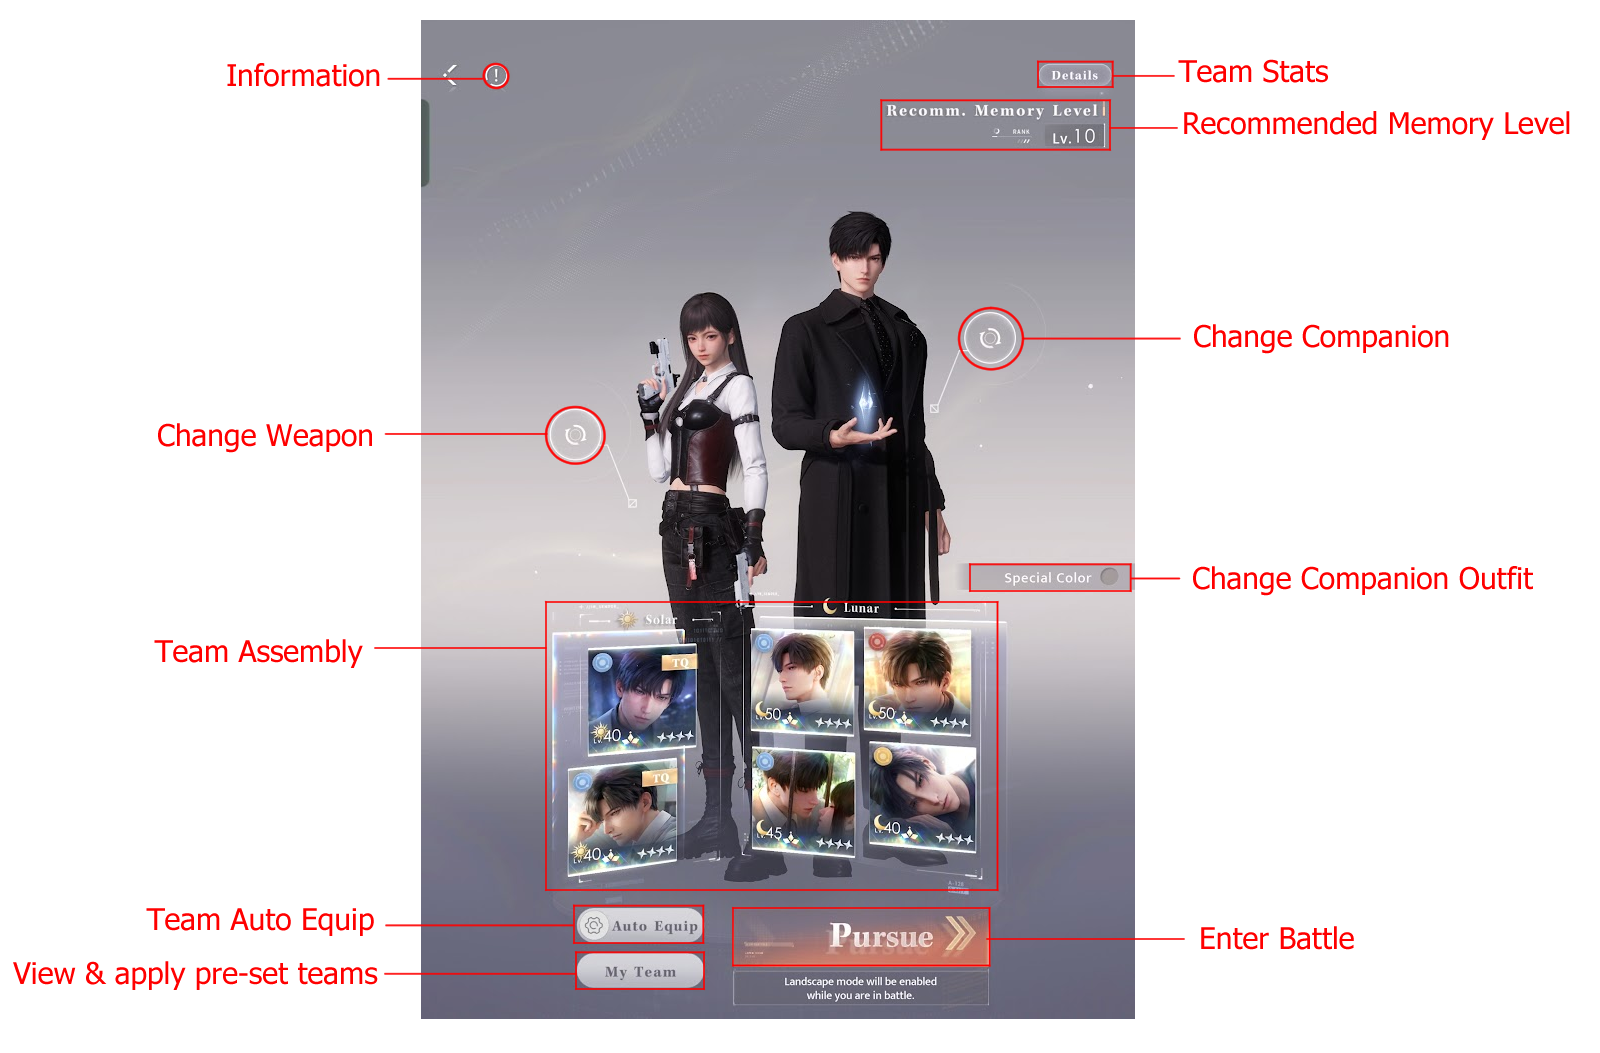
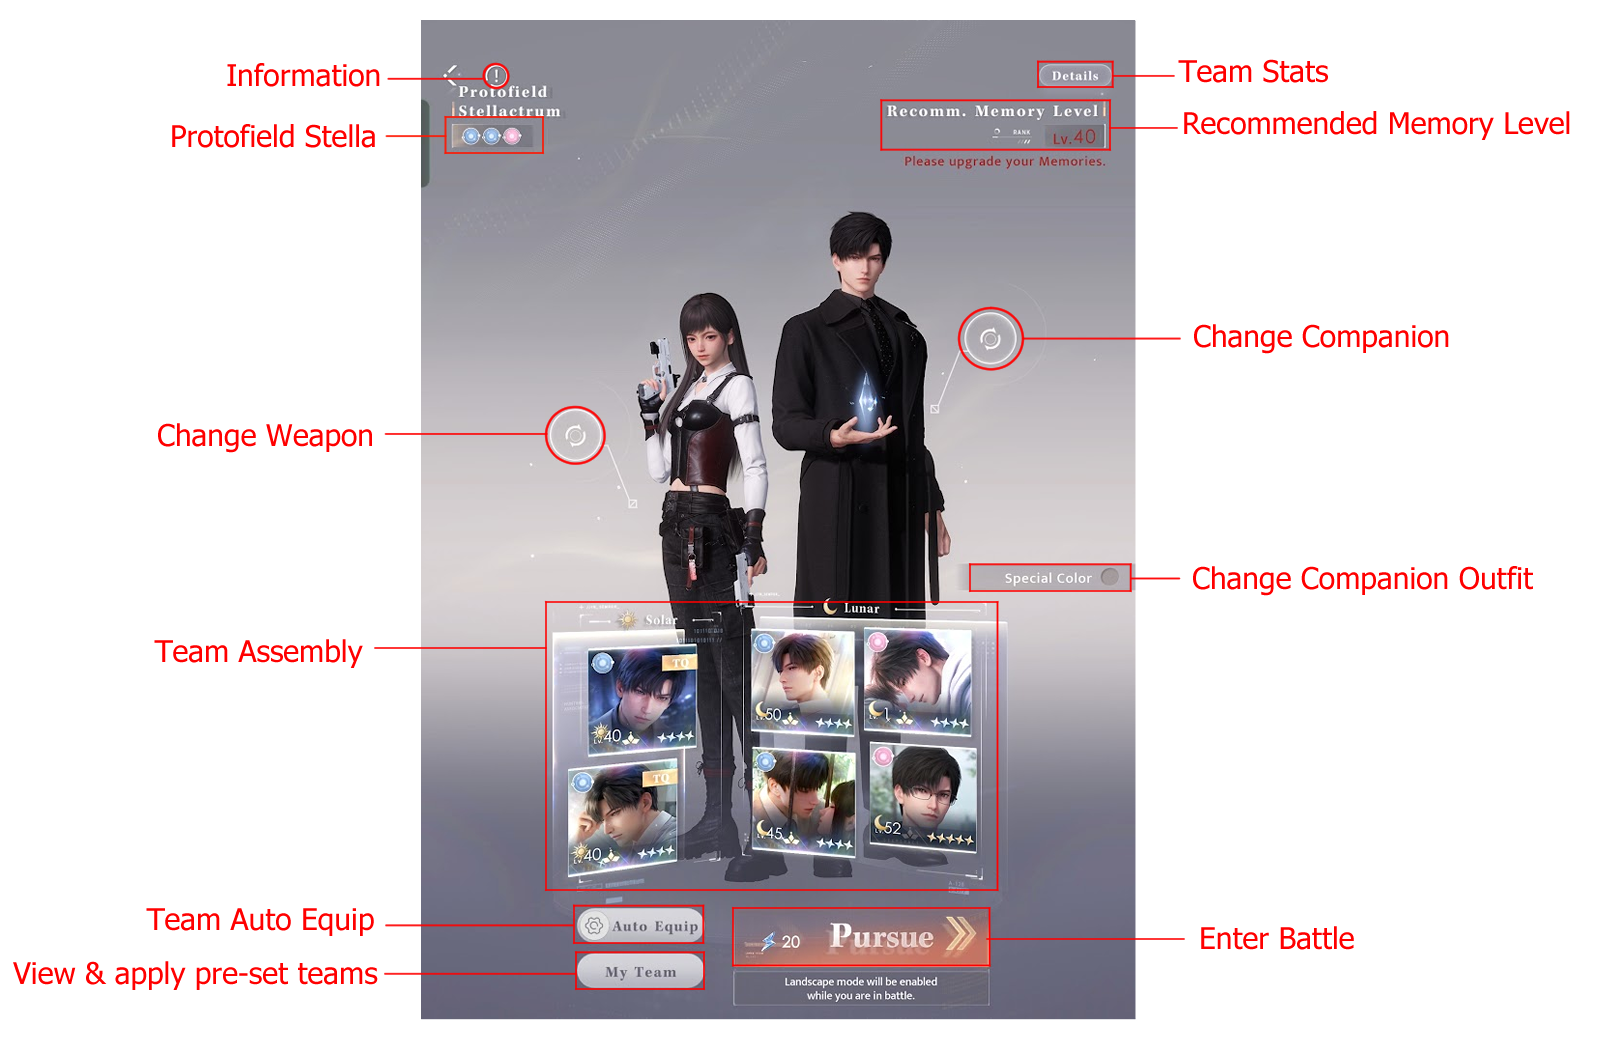
Quartz sync: Sep 4, 2025, 12:29 AM

diff --git a/content/Glossary.md b/content/Glossary.md
@@ -7,6 +7,8 @@ tags:
 - **LI** - love interest.
 - **OG3** - refers to original 3 men: Xavier, Rafayel, Zayne.
 - **RNG** - “random number generation” except no one actually calls it that. Basically just the randomness of anything (trust us, this game’s combat has way too much RNG to explain here). A “good RNG run” means that lady luck was on your side and you got lots of high damage numbers.
+- **Minstat** - using very low overall stats to clear a stage. Usually the lowest stats that can be used to clear that stage.
+- **Overstat** - the team’s stats are a good deal higher than is needed to beat the stage if the companion’s kit is played properly
 ## Companion kit
 - **Companion** - this is who you fight alongside in battles.
 - **Free companion** - the game gives free 4* companions for all LI.
@@ -48,6 +50,10 @@ tags:
 - **Ardent Oath (oath)** - consumes the oath charge to deal an “ultimate” attack with your companion.
 - **Support skill** - your companion’s icon to command him to perform his special attack.
 	- **Empowered support** - when you trigger a perfect dodge, your companion’s support will become fully charged and deal special damage if used when it is flashing.
+- **Shield Lock** - some enemies enter a phase that prevents their protocore shields from breaking from a resonance skill.
+- **HP Lock**- some enemies enter a phase that prevents any damage from being dealt to it.
+- **Boss** - typical only appear in stages by themselves and half special skills like HP lock; have 4 protocore shields.
+- **Mob** - typically appear in groups and have lower HP and easier-to-deal-with skills; have 2 or no protocore shields.
 ## Stats
 - **Base stat** - a card’s fixed stats. The black stats in card description.
 - **Mainstat** - the top most line on a core.
@@ -65,9 +71,12 @@ tags:
 - **Roll** - a term used to describe increasing the levels, usually of a substat, on a core.
 ## LI's pairs
 **Xavier**:
+5 star:
 - LT - [Lightseeker] (Standard Myth, green)
 - MN - [Lumiere] (Limited Myth, yellow)
 - NV - [King of Darknight] (Limited Myth, red)
+
+4 star:
 - LS - green
 - SN - yellow
 - HC - red
@@ -75,31 +84,43 @@ tags:
 - GX - blue
 
 **Rafayel**:
+5 star:
 - AB - [Abysswalker] (Standard Myth, purple)
 - TP - [God of the Tides] (Limited Myth, pink)
 - MS - [Lemurian Sea God] (Limited Myth, yellow)
+
+4 star:
 - RD - purple
 - DT - pink
 - HC - yellow
 - TF - green
 
 **Zayne**:
+5 star:
 - FS - [Foreseer] (Standard Myth, blue)
 - SF - [Master of Fate] (Limited Myth (red)
+
+4 star:
 - TQ - blue 
 - NT - red
 - HC - pink
 - FR - yellow
 
 **Sylus**:
+5 star:
 - CA - [Relentless Conqueror] (Standard Myth, pink)
 - AS - [Abysm Sovereign] (Limited Myth, green)
+
+4 star:
 - RZ - pink
 - BN - blue
 
 **Caleb**:
+5 star:
 - FA - [Farspace Colonel] (Standard Myth, red)
 - LR - [Ultimate Weapon X-02] (Limited Myth, purple)
+
+4 star:
 - FD - green
 - LO - red
 

diff --git a/content/Beginner guides/Memories cards.md b/content/Beginner guides/Memories cards.md
@@ -54,7 +54,8 @@ Pair bonuses for 4* solar pairs are all the same: 
 - R2: Reduces DMG taken by 5%
 - R3: Increase DMG by 5%
 
-Pair bonuses for 5* solar pairs (myths) have both standard bonuses as well as unique additions to the companion kit (listed in their individual companion guides). 
+Pair bonuses for 5* solar pairs (myths) have both passive bonuses as well as active bonuses that are unique to the companion kit (listed in their individual companion guides).
+Passive bonuses are the same for all myth pairs:
 - R0: Increases DMG by 8% and reduces DMG taken by 8%
 - R1: Boost oath recovery boost by 20%
 - R2: Adds a permanent extra energy charge (also unlocks the special colour for the companion)
@@ -69,14 +70,14 @@ When discussing Myth companions, “R-1” is often to used to describe a team u
 >[!example]- Myth companion on 4* solar pair
 >For example, in the below team set up, the solar pair is the 4 star R1 VL, but the companion is Lightseeker. Lightseeker has his own 5 star solar cards (LT), which are not deployed on this team. In this team, only the VL pair bonuses apply, and none of the LT pair bonuses apply (if your account has an R3 LT pair, none of those pair bonuses apply to this R1 VL team).
 >
->In this case, we often call it an R-1 LT: you can use LT’s base companion kit, but do not have access to any of the pair bonuses. This can often completely change the companion’s gameplay.
+>In this case, we often call it an R-1 LT: you can use LT’s base companion kit, but do not have access to any of the myth pair bonuses. This can often completely change the companion’s gameplay.
 >
 ><p style="text-align: center;"> <img src="/Images/memories cards/r-1_4starpair.jpg" alt="Myth companion on 4* solar pair" /> </p>
 
 >[!example]- Myth companion with different 5* solar pair
 >In the case of using Myth companions with 5 star solar cards that do not belong to the companion, then the standard 5* bonuses would apply, but not the companion specific bonuses. This can be done by clicking on the floating circle to the right of your companion - any companion can be used with any team of the same LI.
 >
->For example, in the Sylus team below, the myth Abysm Sovereign (AS) companion is being used on a R2 Relentless Conqueror (CA) solar pair. In this case, the R-1 AS companion would have the 8% DMG bonus, 8% reduced DMG taken, 20% oath recovery, and the 4th energy charge granted by the R2 CA standard pair bonuses, but none of the kit specific bonuses (listed in the companion guide). Typically, the higher the rank of the 5* solar pair cards, the less ideal it is to use a different companion, as you lose out on a lot of additional damage from the companion-specific pair bonuses.
+>For example, in the Sylus team below, the 5* Abysm Sovereign (AS) companion is being used on a R2 Relentless Conqueror (CA) solar pair. In this case, the R-1 AS companion would have the 8% DMG bonus, 8% reduced DMG taken, 20% oath recovery, and the 4th energy charge granted by the R2 CA passive pair bonuses, but none of the kit specific bonuses (listed in the companion guide). Typically, the higher the rank of the 5 star solar pair cards, the less ideal it is to use a different companion, as you lose out on a lot of additional damage from the companion-specific pair bonuses.
 >
 ><p style="text-align: center;"> <img src="/Images/memories cards/r-1_5starpair.jpg" alt="Myth companion on 5* solar pair" /> </p>
 # How to Read a Card’s Stats
@@ -91,14 +92,14 @@ Clicking on the details button opens up a box that breaks down all the stats on 
 ## Basic Stats
 The card’s base stats are listed in **Black**, while any additional stats from cores are listed in **Yellow**. In the above example, the equipped cores have no added HP and DEF, but add 394 ATK, 8.8% crit rate and 4.3% crit dmg. The sum of the black and yellow values are shown on the main memory screen (for example, 480 + 394 ATK add up to the 874 ATK in the previous image)
 ## Advanced Stats
-Listed here are things like Oath’s Strength, Expedited Energy Boost, Oath Recovery Boost and DMG Boost to Weakened. The DMG Boost to Weakened value includes any core substats as well as talent bonus. In the above image, there is a total of 5.9% D2W: 1.2% comes from the card talent, and the remaining 4.7% is from the equipped cores.
+Listed here are Oath’s Strength, Expedited Energy Boost, Oath Recovery Boost and DMG Boost to Weakened. The DMG Boost to Weakened value includes any core substats as well as talent bonus. In the above image, there is a total of 5.9% D2W: 1.2% comes from the card talent, and the remaining 4.7% is from the equipped cores.
 
 >[!warning] Oath Recovery Boost
->Any oath boost from an R1 solar pair bonus is not shown here as part of the Oath Recovery Boost.
+>Any oath boost from an R1 solar pair passive bonus is not shown here as part of the Oath Recovery Boost stat.
 ## Card Talents
-All cards come with a talent that is used to increase the D2W boost. Card talents **should not** be considered in most team set-ups, and are only used to passively add additional D2W stats to the team. Advanced players can try to match lunar talents with their companion if they are brute forcing or using minstats for a stage. 
+All cards come with a talent that is used to increase the card's D2W. Card talents **should not** be considered in most team set-ups, and are only used to passively add additional D2W stats to the team. Advanced players can try to match lunar talents with their companion if they are brute forcing or using minstats for a stage. 
 
-A card’s talent is used to determine the card’s base stats, and are not dependent on whether it is a solar card or a lunar card. All 5* cards with an ATK talent at the same rank will have the same base stats, all 5* cards with an HP talent at the same rank will have the same base stats, etc. 
+A card’s talent is used to determine the card’s base stats, and are not dependent on whether it is a solar card or a lunar card. All 5 star cards with an ATK talent at the same rank will have the same base stats, all 5 star cards with an HP talent at the same rank will have the same base stats, etc.
 ## Cards stats table
 
 ![[Cards stats table#5 star cards]]

diff --git a/content/Beginner guides/Team building.md b/content/Beginner guides/Team building.md
@@ -6,11 +6,11 @@ tags:
 # Basics about a team
 Team building can be very intimidating if you are starting out. Here are the basics!
 1. A team is always made up of 2 <div class="tooltip">solar cards<span class="tooltiptext">Card has the “sun” icon</span> </div>, and 4 <div class="tooltip">lunar cards<span class="tooltiptext">Card has a crescent moon icon</span></div>. You cannot mix and match cards from different LI.
-2. Where possible, always pick a <div class="tooltip">solar pair<span class="tooltiptext">Two solar cards that are matched</span></div>. Pair bonuses can greatly increase your damage output. More about pairs. (put a link)
+2. Where possible, always pick a <div class="tooltip">solar pair<span class="tooltiptext">Two solar cards that are matched</span></div>. Pair bonuses can greatly increase your damage output. [[Memories cards#Solar Pairs|More about pairs]].
 <p style="text-align: center;"> <img src="/Images/solar_pairs.png" alt="Solar Pairs" /> </p>
 
-3. 5* cards will always have higher base stats than 4* cards (at similar levels), even if the 4* is max ranked. [|link to stats table]
-4. However, 5* cards are not always better to use than 4* cards. Stella matched battles are a lot easier to fight due to the weakened mechanic, compared to brute forcing a level. Using a 4* (or even 3*) card to stella match the stage will greatly reduce the stats required to beat it. 
+3. 5 star cards will always have higher base stats than 4 star cards (at similar levels), even if the 4 star is max ranked. [[Cards stats table]].
+4. However, 5 star cards are not always better to use than 4 star cards. Stella matched battles are a lot easier to fight due to the weakened mechanic, compared to brute forcing a level. Using a 4 star (or even 3 star) card to stella match the stage will greatly reduce the stats required to beat it. 
 5. The “auto-equip” function will always prioritise stella-matching a team. We do not recommend using the function because it does not recognise who your main is. This means it would rather choose six 1 level cards that can stella match the team, instead of six 80 level cards that do not stella match.
 
 >[!tip] Myth companion
@@ -22,11 +22,12 @@ Before you can enter a battle, you must pick the team that you will bring into c
 
 In team window you have: 
 - **Information**: This button opens up a quick summary of all the info in this guide if you need a reminder.
+- **Protofield Stella**: Some stages have stellactrum that can be matched. Every stella that can be matched by the team grants it 5% dmg boost, up to a max of 30% boost. For example, in the image above, the field stella is 2 blue and 1 pink. The team has 3 blue and 3 pink - granting a total of 30% dmg boost (alternatively, if your team had 1 blue and 5 pink, you would still receive the full 30% dmg boost, but would be considered a [[Team building#Brute Force vs Stella matching|brute force team]].) You can tap the stella to see a description of your team’s current stella bonuses.
 - **Team Stats**: This opens up a summary of the team stats of your current equipped memories. It includes a table of the sum of all the stats of the memories used in the team as well at the active pair bonuses (if available).
 
 >[!warning] Oath Recovery Boost
 >Any oath boost from an R1 solar pair bonus is not shown here as part of the Oath Recovery Boost.
-<p style="text-align: center;"> <img src="/Images/team_stats.jpg" alt="Team stats" /> </p>
+<p style="text-align: center;"> <img src="/Images/team_stats.jpg" alt="Team stats"/> </p>
 
 >[!tip] Sharing stats
 >When discussing teams or asking for help in the LaDs Discord server, give a screenshot of both the main team set up page as well as the team stats page so helpers can more easily give you advice.
@@ -77,7 +78,7 @@ Depending on the stage, there will be required stellactrum colours that you will
 **Brute team** - this can be either partial stella match or no stella match at all. Stat priority will be high *Crit rate %* and *Crit dmg %* -  a “crit build”. Brute force teams also require higher scaling stats when compared to a stella matched team.
 ## Solars, Weapon and Companion priorities
 **Solar pair priority**:
-Myth solar pair (5 star pair) > 4 star pair R3 > one 5* and one 4* > 4* pair R0-2
+Myth solar pair (5 star pair) > 4 star pair R3 > one 5 star and one 4 star > 4 star pair R0-2
 
 **Companion**:
 Always prioritise using a myth companion over a free companion, even if you don't use myth solars.
@@ -85,7 +86,7 @@ Always prioritise using a myth companion over a free companion, even if you don'
 >[!NOTE]- Notes for Caleb companions
 >Don't use FA Caleb for mob stages. If FA is the only myth you have for him, use his free companion Pilot to fight mobs.
 
-If you don't have any myth companions, you will have to use a free 4* companion. Sylus and Caleb have only one free companion, while the OG3 have a few to choose from. Recommended OG3 free companions:
+If you don't have any myth companions, you will have to use a free companion. Sylus and Caleb have only one free companion, while the OG3 have a few to choose from. Recommended OG3 free companions:
 - Xavier: Deepspace hunter
 - Rafayel: Fresh Paint
 - Zayne: Medic of the Arctic

diff --git a/content/Beginner guides/Combat basics.md b/content/Beginner guides/Combat basics.md
@@ -31,7 +31,7 @@ The bottom half of the screen is where the majority of the active combat control
 <p style="text-align: center;"> <img src="/Images/battle_controls/dirrect_dodge.gif" alt="Direct Dodge" /> </p>
 
 - **Perfect Dodge**: If this button is tapped at the exact time that an enemy is about to attack MC, this is called a “Perfect Dodge”. A perfect dodge will trigger an empowered support skill (see below).
-- **Basic Attack**: Tapping the button will make MC use her basic attack. Tapping repeatedly will execute a chain of basic attacks. Usually chain of attacks is calling as 4BA or 2BA, etc. It that case number before BA indicates how much attack in chain you need to do.
+- **Basic Attack (BA)**: Tapping the button will make MC use her basic attack. Tapping repeatedly will execute a chain of basic attacks. Usually chain of attacks is calling as 4BA or 2BA, etc. It that case number before BA indicates how much attack in chain you need to do.
 
 <p style="text-align: center;"> <img src="/Images/battle_controls/BA.gif" alt="Basic attack" /> </p>
 <p style="text-align: center;"> <img src="/Images/battle_controls/4BA.gif" alt="Chain of 4 Basic attacks" /> </p>
@@ -40,7 +40,7 @@ The bottom half of the screen is where the majority of the active combat control
 
 <p style="text-align: center;"> <img src="/Images/battle_controls/2BA.gif" alt="Chain of 2 Basic attacks with cancel" /> </p>
 
-- **Charged Attack**: Holding the button will make MC use a charged attack. 
+- **Charged Attack (CA)**: Holding the button will make MC use a charged attack. 
 
 <p style="text-align: center;"> <img src="/Images/battle_controls/CA.gif" alt="Charged attack" /> </p>
 
@@ -85,3 +85,6 @@ When an enemy is weakened, they cannot take normal or critical damage. All damag
 
 >[!tip] Why does this matter?
 > When [[Team building#Assembling a team|assembling teams]], it is important to know what sort of enemies are in the stage - this will determine how often the enemy is in a state when it will take normal & critical damage, vs a state when it will take weakened damage.
+
+---
+<sup>v1.0 by @jayci_3280 @kemrian. Proofreading by @anan1n @.kitty143</sup>

diff --git a/content/Beginner guides/Starting point.md b/content/Beginner guides/Starting point.md
@@ -9,7 +9,7 @@ In beginner guides we are trying to avoid using acronyms, or explain them right 
 # Starting point
 Every combat player has to start somewhere, but for first time players, the amount of things to do can be overwhelming. For a game that’s marketed as an otome, there sure is a lot of combat content, and we understand that it can be *a lot.* We recommend focusing your efforts on the below at the start:
 1. Understand that this is a gacha game. The business model of all gacha games is to encourage spending money by purposely make it hard for ftp players to advance quickly.. If you are ftp, you will have to be more strategic in [[#Picking a main|pick your main]] and resource/stamina management. As long as you have patience, you can advance in this game without spending lots of money.
-2. Decide what your monetary commitment to this game is. This will help you [[#Picking a main|pick your main(s)]].
+2. [[#Picking a main|Pick a main]].
 3. Level 5* cards to 60/60 and 4* cards to 50/50.Focus on your main’s [[Memories cards#Stellactrum|primary and secondary colours]]. Do not level any 3* cards unless you are doing so for affinity. 
 4. Clearing all 9 bounty hunt levels for each of the different types.
 	1. [|Mr Beanie]
@@ -23,6 +23,7 @@ Every combat player has to start somewhere, but for first time players, the amou
 	3. [|Disambiguation Area (Purple/Yellow)]
 6. Work on hunter contests and orbits only as far as you can get without leveling cores unless you are comfortable with [|cores basics]. Struggling in stages without cores can be very frustrating. 
 7. Once comfortable with how to build your [|companions], focus on SHC more than orbits - SHC is a renewable source of income, while orbits are one time only and not time limited. As you level teams for SHC, your orbit teams will also naturally get built.
+8. Accept that this is a gacha game and that the business model is to encourage spending through FOMO mechanics, such an getting stuck on battles. This game can be played with two IRL resources: patience and money. If you have money, you don't need patience; if you do not have or want to spend money, you need patience. Both will get you pretty far in this game.
 # Picking a main
 All battles in Love and Deepspace require fighting with your partner. As you progress through orbits and hunter contests, you will have to build your team to face the harshest of opponents. 
 